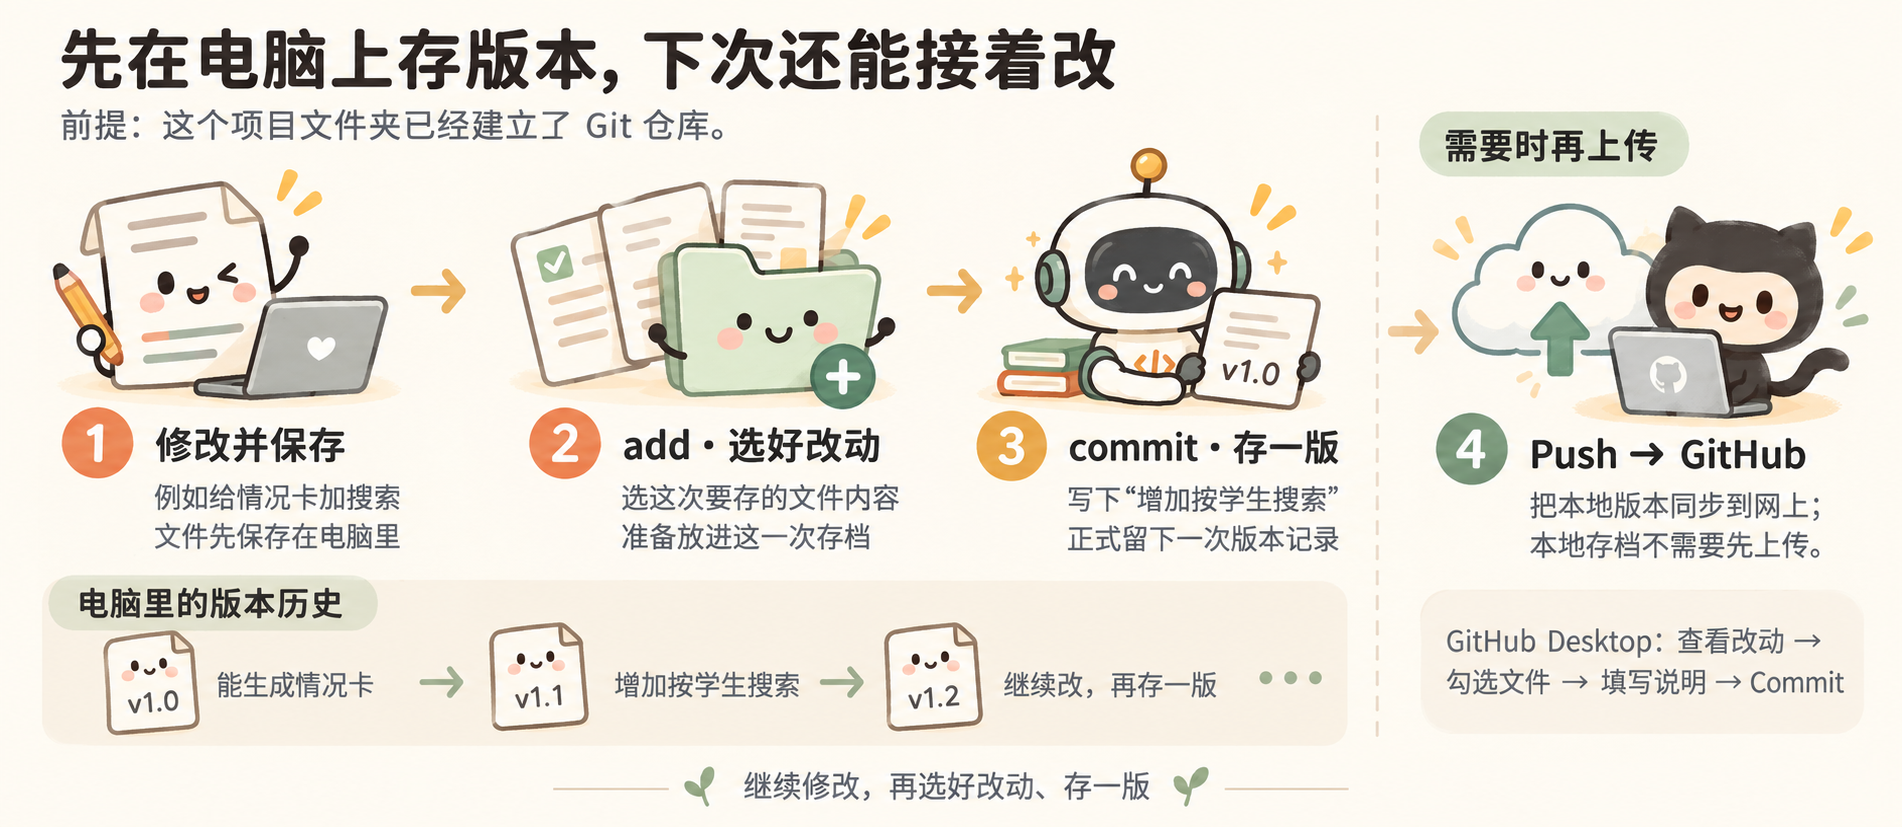
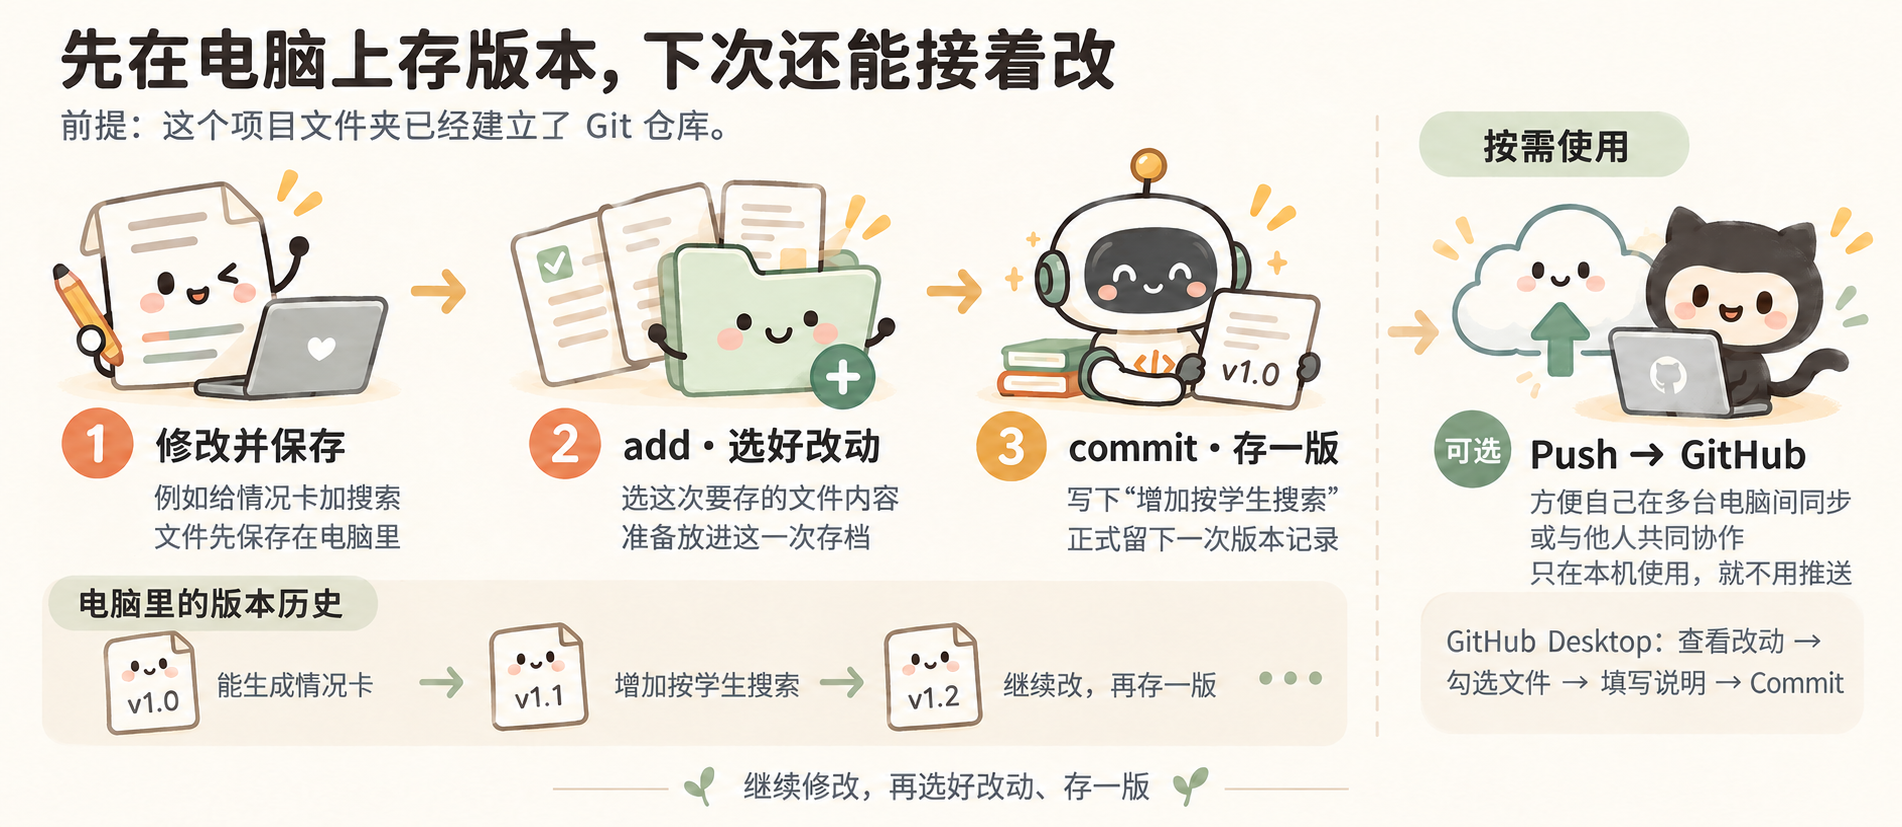
docs(knowledge): explain optional GitHub push purpose

diff --git a/docs/knowledge/ai-share/04_参考资料/04_GitHub.html b/docs/knowledge/ai-share/04_参考资料/04_GitHub.html
@@ -78,7 +78,7 @@ blockquote{background:#eff6ff;border-left-color:#60a5fa;color:#334869}
 <li><strong>commit：正式拍下一张快照，再写一句说明。</strong> 这就是一个留在电脑里的版本。下次继续改，不会自动覆盖这次存档。</li>
 </ul>
 <p>文件本身还是照常编辑和保存。add、commit 是把选好的改动记入版本历史；Git 不会自动记录每次打字。<a href="https://git-scm.com/docs/git-add" target="_blank" rel="noopener noreferrer">Git 的 add 说明</a> · <a href="https://git-scm.com/docs/git-commit" target="_blank" rel="noopener noreferrer">commit 说明</a></p>
-<figure class="learning-figure"><a href="../配图/09-Git存档-q版.png" target="_blank" aria-label="放大配图：本地存档：修改并保存 → add 选好改动 → commit 存一版；需要时再 Push"><picture><img src="../配图/09-Git存档-q版.png" alt="本地存档：修改并保存 → add 选好改动 → commit 存一版；需要时再 Push" loading="lazy"></picture></a><figcaption>本地存档：修改并保存 → add 选好改动 → commit 存一版；需要时再 Push · 点击图片可放大查看</figcaption></figure><h3>用 GitHub Desktop，就按这几步做</h3>
+<figure class="learning-figure"><a href="../配图/09-Git存档-q版.png?v=46fe2fad" target="_blank" aria-label="放大配图：本地存档：修改并保存 → add 选好改动 → commit 存一版；需要多端同步或共同协作时，再 Push 到 GitHub（可选）"><picture><img src="../配图/09-Git存档-q版.png?v=46fe2fad" alt="本地存档：修改并保存 → add 选好改动 → commit 存一版；需要多端同步或共同协作时，再 Push 到 GitHub（可选）" loading="lazy"></picture></a><figcaption>本地存档：修改并保存 → add 选好改动 → commit 存一版；需要多端同步或共同协作时，再 Push 到 GitHub（可选） · 点击图片可放大查看</figcaption></figure><h3>用 GitHub Desktop，就按这几步做</h3>
 <ol>
 <li>改好文件并保存，试一下功能是否正常。</li>
 <li>在 <strong>Changes</strong> 里查看差异，勾选这次要存的文件。这对应“选好这次的改动”，不用另找一个 add 按钮。</li>
@@ -96,8 +96,9 @@ git commit -m &quot;增加按学生搜索&quot;
 <p>第一行先看看哪些文件改了；第二行选中 <code>index.html</code> 当前的改动；第三行存成一个版本。文件名要换成你实际修改的文件。add 之后如果又改了文件，想把新改动一起存进去，就再 add 一次。</p>
 </details>
 
-<h3>要同步到 GitHub 时，再用 Push</h3>
-<p><strong>Commit 存在自己的电脑里；Push 才是上传到 GitHub。</strong> 在 Desktop 中点击 <strong>Push origin</strong>，就把本地的新存档同步上去；新建项目首次上传时通常显示 <strong>Publish repository</strong>。</p>
+<h3>需要多端同步或共同协作时，再推送到 GitHub</h3>
+<p><strong>Push 是可选的：需要在多台电脑间同步项目，或与其他人共同协作时，再把本地版本推送到 GitHub。只在自己的电脑上使用，保存本地版本就可以，不需要推送。</strong></p>
+<p>推送后，可以在另一台电脑上获取这些版本，协作者也能获取和接着修改。<strong>Commit 是在本机存一版；Push 是把这些版本推送到 GitHub。</strong> 在 Desktop 中点击 <strong>Push origin</strong> 即可推送；新建项目首次上传时通常显示 <strong>Publish repository</strong>。</p>
 <p>上传前确认仓库是公开还是私有，不要上传密码或未经授权的业务资料。<a href="https://docs.github.com/en/repositories/creating-and-managing-repositories/about-repositories" target="_blank" rel="noopener noreferrer">可见范围说明</a> · <a href="https://docs.github.com/en/desktop/overview/creating-your-first-repository-using-github-desktop" target="_blank" rel="noopener noreferrer">创建和发布仓库说明</a></p>
 <p>代码上传到 GitHub，也不等于网页已经上线。</p>
 <div class="footer">本页可离线阅读。外部资料链接需要联网。<br>练习中的学生信息均为虚构数据。</div></main></div><script>document.getElementById('print').onclick=()=>window.print();document.querySelectorAll('pre').forEach(p=>{if(p.closest('.output'))return;const w=document.createElement('div');w.className='code-wrap';p.before(w);w.append(p);const b=document.createElement('button');b.className='copy';b.textContent='复制';b.onclick=async()=>{try{if(navigator.clipboard&&window.isSecureContext){await navigator.clipboard.writeText(p.innerText)}else{const t=document.createElement('textarea');t.value=p.innerText;document.body.append(t);t.select();if(!document.execCommand('copy'))throw Error('copy');t.remove()}b.textContent='已复制'}catch{b.textContent='请选中文字复制'}setTimeout(()=>b.textContent='复制',2200)};w.append(b)});let closed=[];window.addEventListener('beforeprint',()=>{closed=[...document.querySelectorAll('details:not([open])')];closed.forEach(x=>x.open=true)});window.addEventListener('afterprint',()=>closed.forEach(x=>x.open=false));window.addEventListener('scroll',()=>{const h=document.documentElement;document.getElementById('progress').style.width=((h.scrollTop/(h.scrollHeight-h.clientHeight||1))*100)+'%'});</script></body></html>

diff --git a/docs/knowledge/ai-share/04_参考资料/04_GitHub.md b/docs/knowledge/ai-share/04_参考资料/04_GitHub.md
@@ -122,9 +122,11 @@ git commit -m "增加按学生搜索"
 
 </details>
 
-### 要同步到 GitHub 时，再用 Push
+### 需要多端同步或共同协作时，再推送到 GitHub
 
-**Commit 存在自己的电脑里；Push 才是上传到 GitHub。** 在 Desktop 中点击 **Push origin**，就把本地的新存档同步上去；新建项目首次上传时通常显示 **Publish repository**。
+**Push 是可选的：需要在多台电脑间同步项目，或与其他人共同协作时，再把本地版本推送到 GitHub。只在自己的电脑上使用，保存本地版本就可以，不需要推送。**
+
+推送后，可以在另一台电脑上获取这些版本，协作者也能获取和接着修改。**Commit 是在本机存一版；Push 是把这些版本推送到 GitHub。** 在 Desktop 中点击 **Push origin** 即可推送；新建项目首次上传时通常显示 **Publish repository**。
 
 上传前确认仓库是公开还是私有，不要上传密码或未经授权的业务资料。[可见范围说明](https://docs.github.com/en/repositories/creating-and-managing-repositories/about-repositories) · [创建和发布仓库说明](https://docs.github.com/en/desktop/overview/creating-your-first-repository-using-github-desktop)
 
